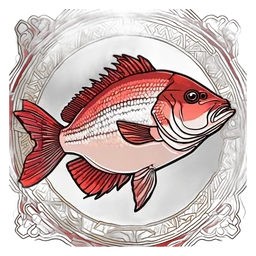
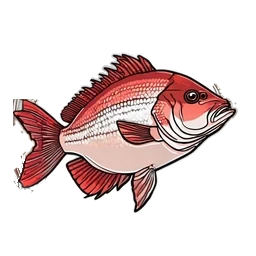
画像数テストを既存魚（タイ・マグロ）分も含めて数えるよう修正、タイ画像の背景残りを除去
Claude-Session: https://claude.ai/code/session_01KU1BsVDztdfD6ex6vGpLib

diff --git a/tests/test_catch_items.js b/tests/test_catch_items.js
@@ -20,8 +20,13 @@ describe('Catch items (魚以外の釣れるもの)', () => {
     });
 
     it('画像がまだ無いものには image を付けない（404を出さない）', () => {
-        const withImage = items.filter(f => f.image);
+        // 既存の魚（タイ・マグロ）に当てる画像もあるので、魚全体で数える
+        const dir = window.CATCH_IMAGE_DIR || 'images/catch/';
+        const withImage = GAME_DATA.FISH.filter(f => f.image && f.image.indexOf(dir) === 0);
         expect(withImage.length).toBe((window.CATCH_IMAGE_READY || []).length);
+        // 画像の無い釣れるものには image が付いていない
+        const ready = new Set(window.CATCH_IMAGE_READY || []);
+        expect(items.filter(f => f.image && !ready.has(f.imageId)).length).toBe(0);
     });
 
     it('既存の魚と同じ名前（タイ・マグロ）は二重登録しない', () => {
